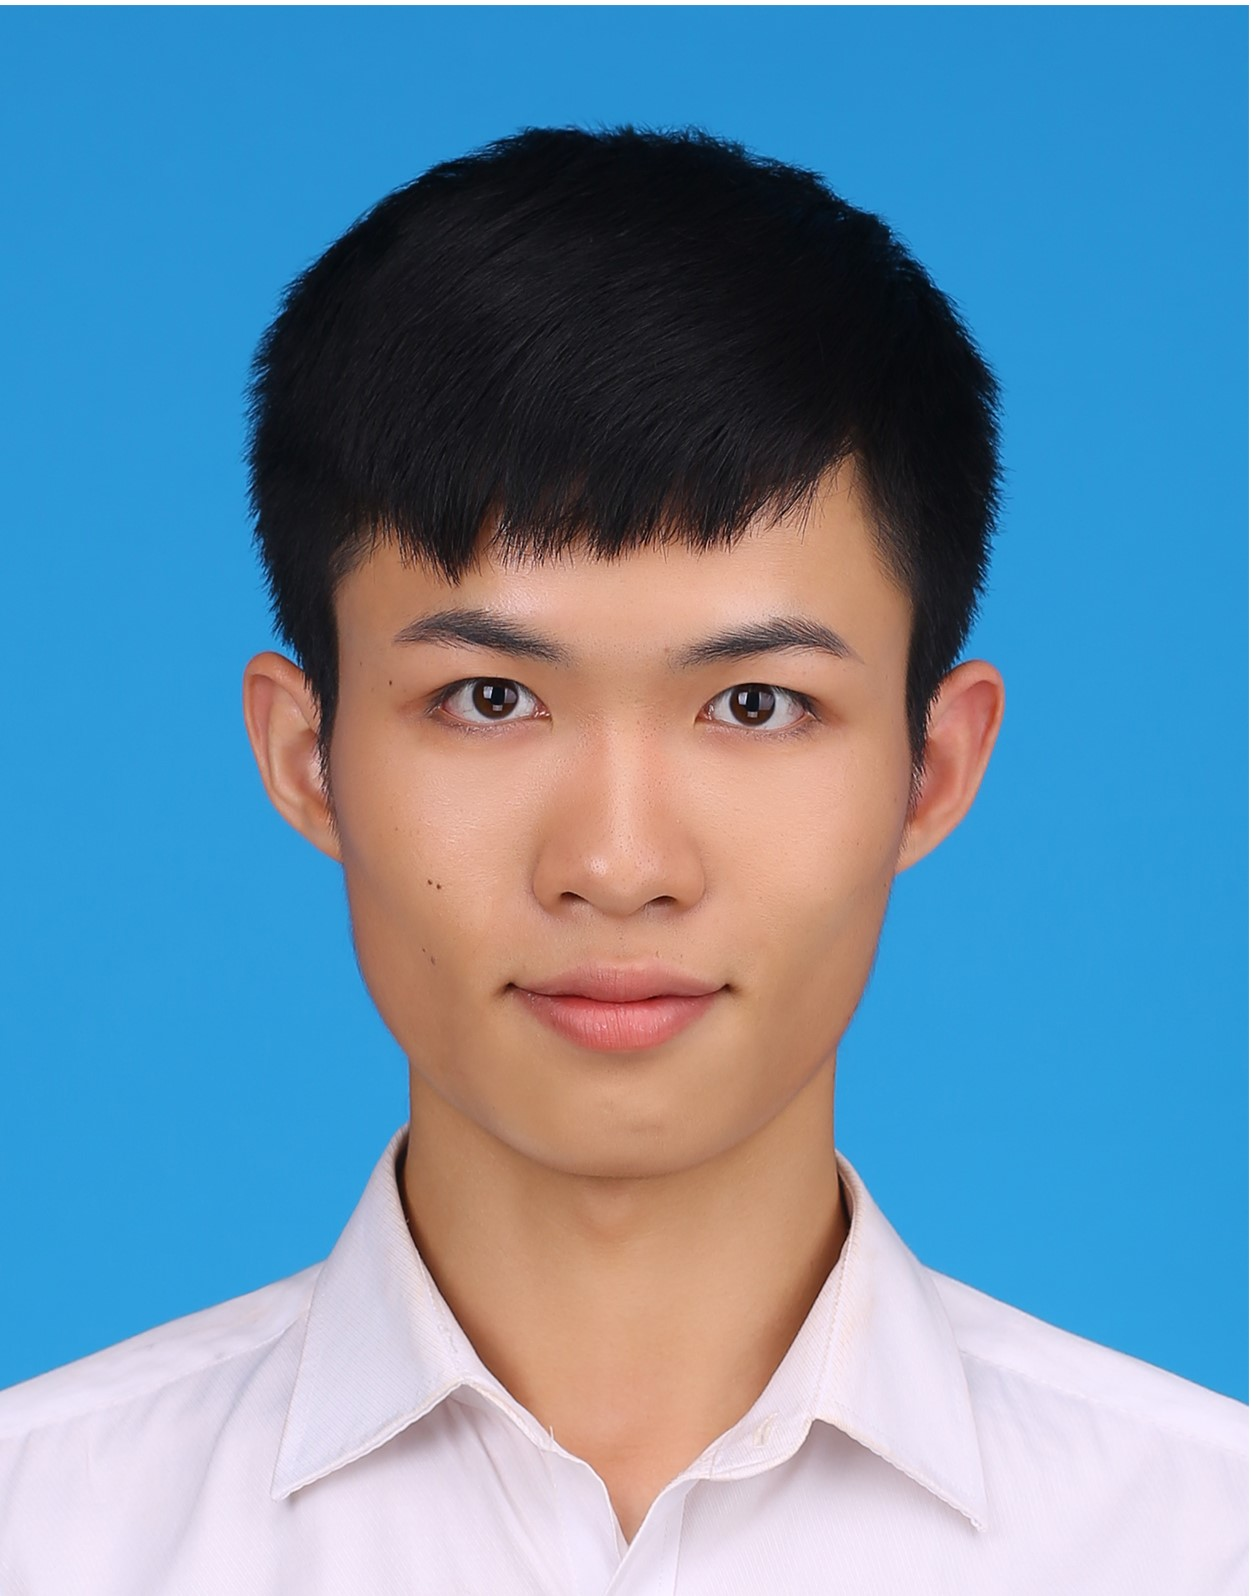
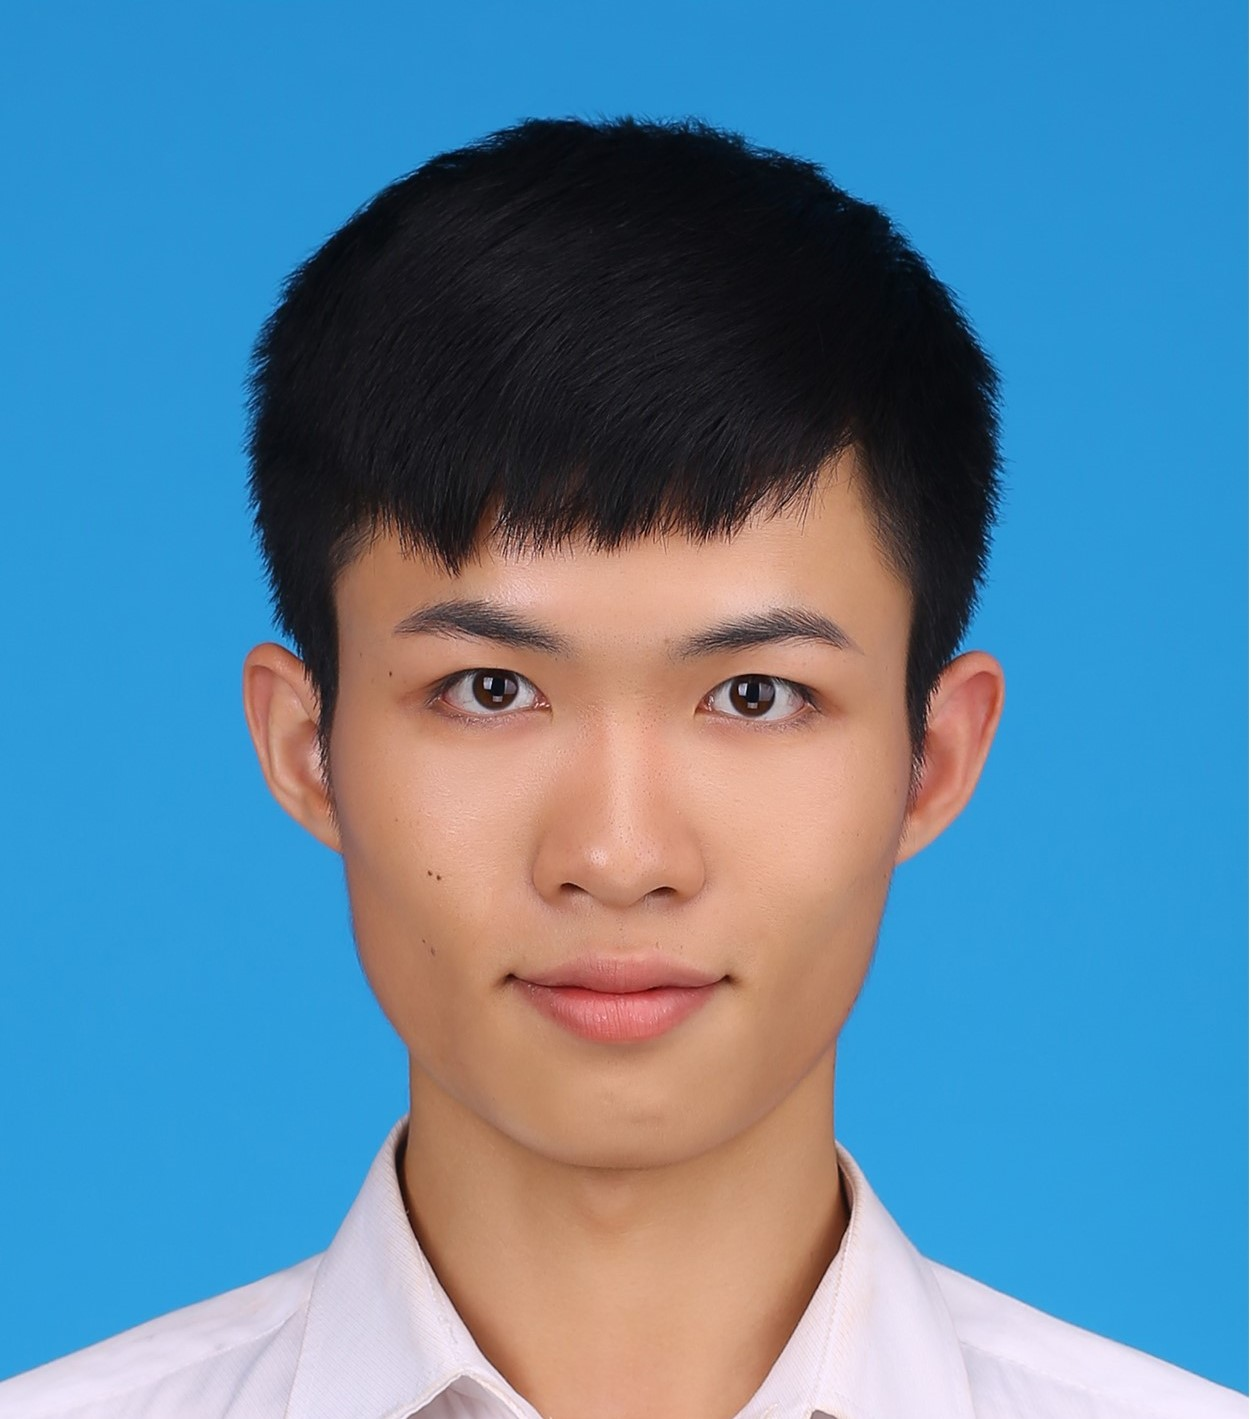
Update aboutme.md

Changed region(s): [[0.0, 0.062, 1.0, 1.0], [0.0, 0.0, 0.9976, 0.031]]

diff --git a/content/authors/huangxf/_index.md b/content/authors/huangxf/_index.md
@@ -36,4 +36,4 @@ highlight_name: false
 ---
 I am an incoming Ph.D. student in the Department of Industrial and Manufacturing Systems Engineering at the University of Michigan-Dearborn. I will join the [Computational Engineering & Reliability Laboratory](http://www.google.com/url?q=http%3A%2F%2Freliadesign.net%2F&sa=D&sntz=1&usg=AFQjCNHDhX32PLsSLRh0f34rLsNWrvddzg) (CERL) under the supervision of [Dr. Zhen Hu](https://www.google.com/url?q=https%3A%2F%2Fumdearborn.edu%2Fusers%2Fzhennhu&sa=D&sntz=1&usg=AFQjCNGm3aWrgnO9QRX-fyo7alwGhUsuwA) in 2022 winter.
 
-{{< icon name="download" pack="fas" >}} Download my {{< staticref "uploads/demo_resume.pdf" "newtab" >}}resumé{{< /staticref >}}.
+# {{< icon name="download" pack="fas" >}} Download my {{< staticref "uploads/demo_resume.pdf" "newtab" >}}resumé{{< /staticref >}}.
